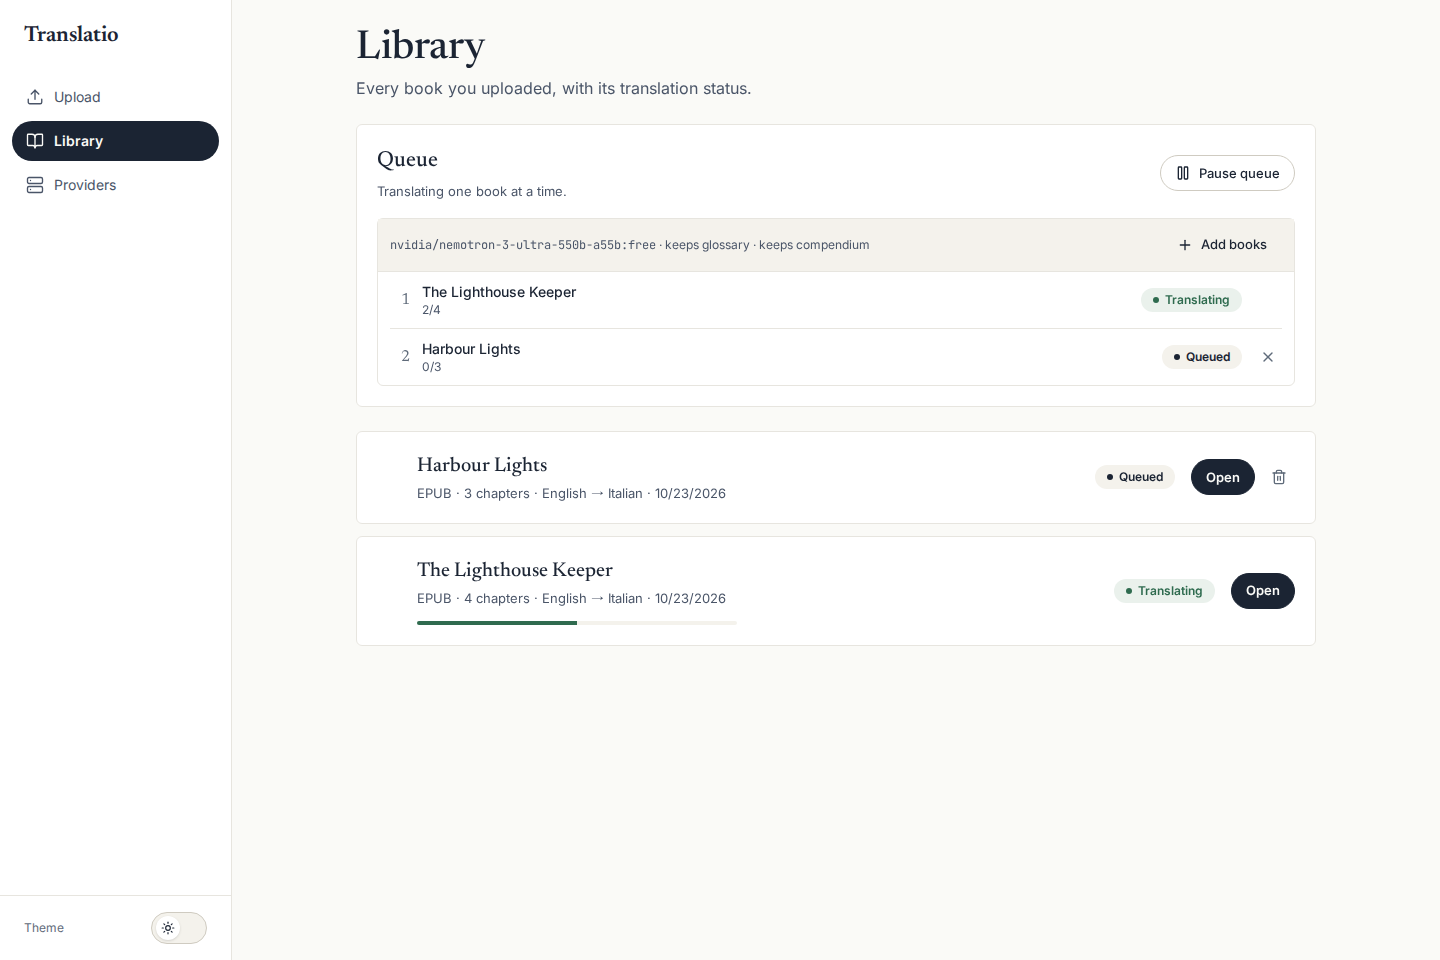
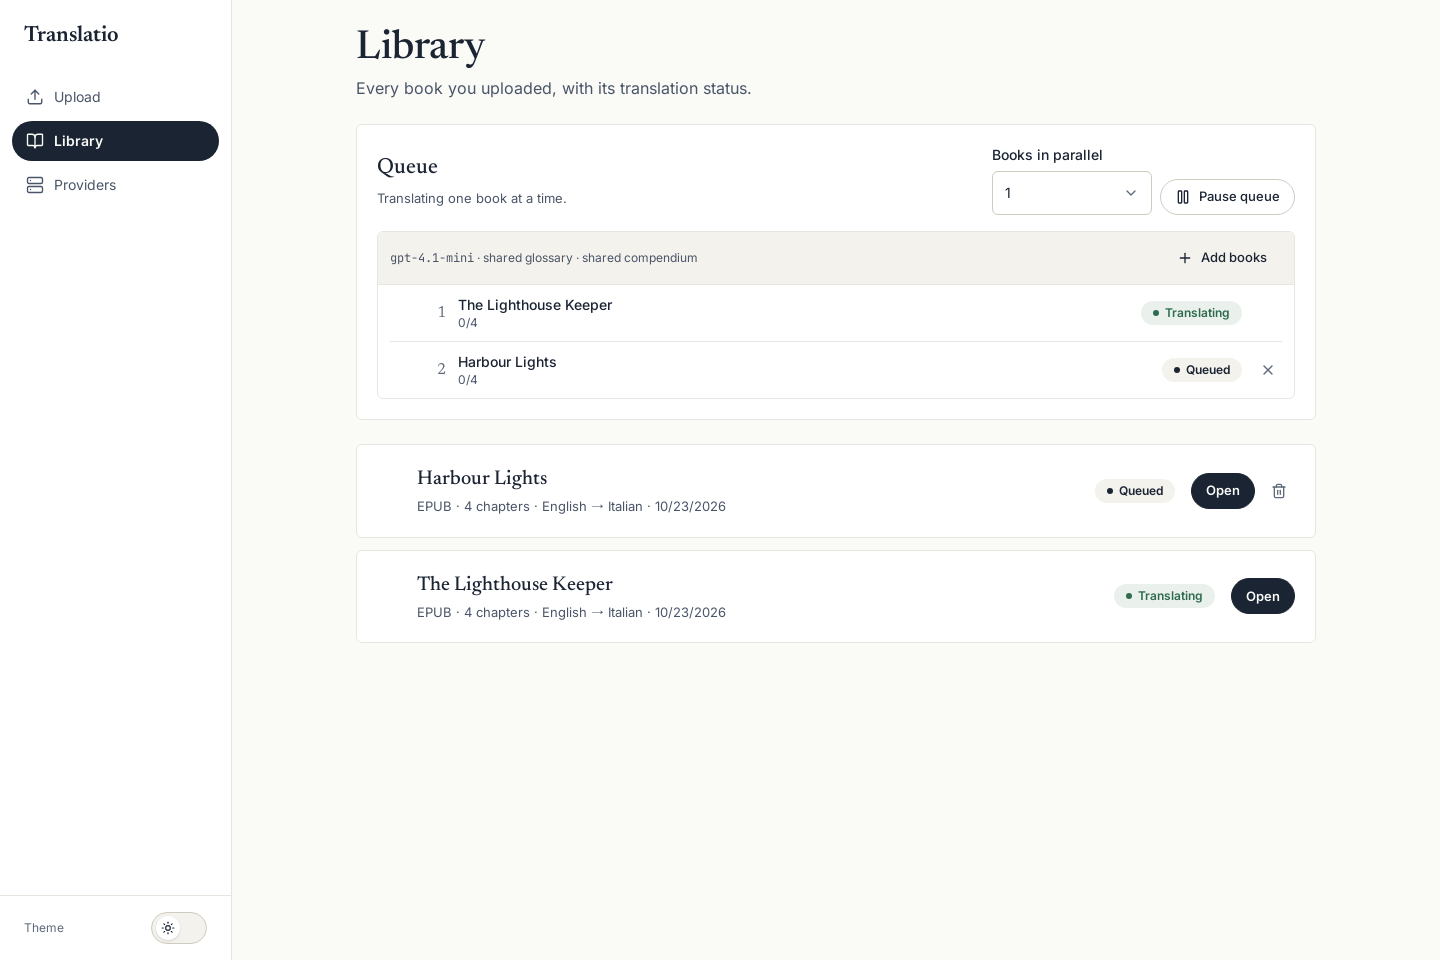
docs: new screenshots and docs for targeted fixes, compendium view, settings
Closes #133

diff --git a/CLAUDE.md b/CLAUDE.md
@@ -61,7 +61,7 @@ Monorepo: `backend/` (FastAPI + LangChain/LangGraph + async SQLAlchemy/aiosqlite
    - `recover_interrupted_jobs()` (startup) turns `translating` into `paused`
 5. `app/agents/pipeline.py`: `translate_chapter(blocks, previous=...)` chunks the blocks deterministically and runs only the chunks with missing blocks through a LangGraph `StateGraph`: context → translate → review (optional) → retry with the reviewer's feedback | learn → finalize → `chunk_done`. Only translate and review call the model. `context` picks the glossary terms and compendium entries the chunk (and the text before it) mentions; `learn` folds the accepted translation's `new_terms`/`compendium_updates` in. A failed chunk leaves its blocks `None` (reported in `failed_chunks`), learns nothing, and is not stored as translated.
    - **Glossary** (`app/knowledge/glossary.py`), shared and read live: model-proposed terms must occur in the source and never override existing/user entries, near-duplicates included (`app/knowledge/similarity.py`: same content words in any order, plurals/articles folded, longer words matched by TF-IDF trigram cosine; an extra word is another term). Prompts get only relevant entries (`app/knowledge/matcher.py`: one folded-word index, no regex per term; the chunk's own mentions rank before the previous context's, capped by `max_glossary_terms`/`max_compendium_entries` (app settings, default 150/60, 0 = all; read at every chunk, edited in the Providers page's Retrieval card)), and the deterministic `enforce` pass uses only those.
-   - **Compendium** (`app/knowledge/compendium.py`): characters/places/other elements with gender, aliases and short notes, so agreements in gendered languages stay right. `merge` matches by name/alias (near-duplicates too), only fills what an entry lacks (a known gender changes only with `evidence` quoted from the passage; it stays on the entry and marks the correction), never changes user entries, keeps only aliases that occur in the source, splits joined names ("Sylphie / Sylphiette" → name + alias) and skips notes whose words are already there. **Targeted fixes ("breadcrumbs", `services/fixes.py`)**: editing a translated glossary term's translation, or a compendium entry's gender (asks first for notes), follows the change back to the translated blocks whose *source* names it (`translation_service.mention_doubts`: a `TermMatcher` over the book's blocks, ~25 ms on 240 pages, so nothing is stored per block and aliases/later entries are covered) in the book and its series. Each becomes a bookmark with the precise reason (and `old_text`/`new_text` for a glossary change); the doubt review replaces an exact occurrence without the model (`glossary.replace_term`) only when the new translation keeps every word's ending (`same_agreement`: gender/number unchanged), and otherwise sends the passage — already replaced — to the review model, which may rewrite whole sentences to make articles, adjectives and pronouns agree, in rounds so edits made during the review join it (`pipeline.added_bookmarks`). Up to `AUTO_FIX_LIMIT` (50) passages a completed book gets a fix-only run at once (`start_fixes`: last `RunConfig` with `restart=False`, `doubt_review=True`; partly translated books wait for their next run); above it (or for notes), the edit returns `confirm` and the UI asks before `POST /api/books/{id}/fixes` with `remember: true`, which sets `Book.ask_before_fixes = False`: asked once per book. The run switch `RunConfig.ask_before_fixes` (default on) sets it at each start; off never asks. Bookmarks dedupe only against open ones, so the same change can come again. Deleting a learned term or entry also deletes it from the series' other books unless edited there. The translator gets the relevant entries and reports `compendium_updates`; the reviewer gets them plus the previous context and flags gender errors as major. The analysis seeds it (`AnalysisResult.entities`). Edited via `GET`/`PUT /api/compendium/{book}` (whole list, only when idle) or one entry at a time (`POST /entry`, `PUT`/`DELETE /entry/{id}`, also while translating: the stores holding the book reload; a reload swaps the contents in one step).
+   - **Compendium** (`app/knowledge/compendium.py`): characters/places/other elements with gender, aliases and short notes, so agreements in gendered languages stay right. `merge` matches by name/alias (near-duplicates too), only fills what an entry lacks (a known gender changes only with `evidence` quoted from the passage; it stays on the entry and marks the correction), never changes user entries, keeps only aliases that occur in the source, splits joined names ("Sylphie / Sylphiette" → name + alias) and skips notes whose words are already there. **Targeted fixes ("breadcrumbs", `services/fixes.py`)**: editing a translated glossary term's translation, or a compendium entry's gender (asks first for notes), follows the change back to the translated blocks whose *source* names it (`translation_service.mention_doubts`: a `TermMatcher` over the book's blocks, ~25 ms on 240 pages, so nothing is stored per block and aliases/later entries are covered; a character is also followed by each part of its name, titles excluded: `compendium.mention_names`) in the book and its series. Each becomes a bookmark with the precise reason (and `old_text`/`new_text` for a glossary change); the doubt review replaces an exact occurrence without the model (`glossary.replace_term`) only when the new translation keeps every word's ending (`same_agreement`: gender/number unchanged), and otherwise sends the *original* passage to the review model with the reason (given an already-replaced text, models "confirm" it), which may rewrite whole sentences so articles, adjectives and pronouns agree; leftover exact occurrences in its answer are replaced, and if it proposes nothing the mechanical replacement is the fallback (`replace_term` never touches the old term inside the new one: "faro" in "torre del faro"). The review runs in rounds so edits made during the review join it (`pipeline.added_bookmarks`). Up to `AUTO_FIX_LIMIT` (50) passages a completed book gets a fix-only run at once (`start_fixes`: last `RunConfig` with `restart=False`, `doubt_review=True`; partly translated books wait for their next run); above it (or for notes), the edit returns `confirm` and the UI asks before `POST /api/books/{id}/fixes` with `remember: true`, which sets `Book.ask_before_fixes = False`: asked once per book. The run switch `RunConfig.ask_before_fixes` (default on) sets it at each start; off never asks. Bookmarks dedupe only against open ones, so the same change can come again. Deleting a learned term or entry also deletes it from the series' other books unless edited there. The translator gets the relevant entries and reports `compendium_updates`; the reviewer gets them plus the previous context and flags gender errors as major. The analysis seeds it (`AnalysisResult.entities`). Edited via `GET`/`PUT /api/compendium/{book}` (whole list, only when idle) or one entry at a time (`POST /entry`, `PUT`/`DELETE /entry/{id}`, also while translating: the stores holding the book reload; a reload swaps the contents in one step).
    - **Knowledge stores** (`app/knowledge/store.py`): `GlossaryStore`/`CompendiumStore` are the live, single source of truth per scope (`book:{id}` or `series:{batch_id}`), handed out by `KnowledgeRegistry` (`jobs.knowledge`) to every job and released when no job uses them. In-memory mutations have no `await`, so they are atomic on the event loop; the write-through to the rows of every member book (and loads) run under a per-store `asyncio.Lock`. A store loads from its `sources` (the series' books) with user entries first and deletes learned near-duplicates; a book `join`ing receives everything known. API edits call `jobs.knowledge.refresh_book`, so running jobs use them at once. The graph's `learn` node and the analysis write through the stores.
 6. Blocks and alignment: `html_processor.extract_html_blocks` is the single source of blocks for both `SmartChunker.extract_blocks` and `replace_text_blocks`, so translation `i` always lands on block `i`. Inline tags travel as numbered placeholders (`<1>…</1>`, `<2/>`) and are restored with their attributes. `translate_blocks` enforces one output paragraph per block, of a plausible length for it (`aligned`: a paragraph moved onto a page header is caught; retry, then per-block fallback); the reviewer's rewrite is kept only when aligned too. Never change block extraction in only one place.
 7. Agents (`analyzer.py`, `translator_agent.py`, `reviewer.py`) use `structured_chain` against Pydantic models in `app/models/schemas.py`. `FakeChatModel` overrides `with_structured_output` by schema type, so a new structured schema must also be handled there.
@@ -81,6 +81,7 @@ Progress events are forwarded to the client as `{"event": event_type, chapter_in
 - **Fonts**: `font-serif` (Newsreader) for headings and numbers; Inter for the UI; `font-mono` for model ids.
 - **Primitives**: `components/ui.tsx` (`Button`, `Card`, `Page`, `Heading`, `StatusPill`) and `lib/styles.ts` (`buttonClass`, `inputClass`; non-component exports live outside `.tsx` because of react-refresh).
 - **Run settings**: `RunSettingsFields` (+ `lib/runSettings.ts`) is the shared form of the translate page and the queue dialog, including the collapsible feature switches (`FEATURES` in `lib/api.ts`: `analysis`, `use_glossary`, `learn_glossary`, `enforce_glossary`, `use_compendium`, `learn_compendium`, `doubt_review`; `RunConfig` fields, all on by default, read by `pipeline.Features` and `TranslationPipeline.doubt_review`); controls (`Toggle`, `Checkbox`, `Select`) are in `components/controls.tsx`. The Library page selects books into the queue (`QueueDialog`) and shows it (`QueuePanel`).
+- **Knowledge editors**: `GlossaryEditor` and `CompendiumEditor` (tabs by kind, compact rows that open to edit) save one row at a time, also while translating; the whole list only when idle. After a save `lib/fixes.ts` (`followFixes`) reports or asks about the targeted fixes. `RetrievalSettings` (Providers page) edits the per-prompt caps.
 - **Model and provider pickers**: `ModelCombobox` and `ProviderSelect` (Headless UI). `ProviderLogo` (brand marks from `@lobehub/icons-static-svg`, picked from provider type, OpenRouter URL or `vendor/model` prefix).
 - **Visual checks**: Chrome automation may be unavailable. Instead, take screenshots with Playwright in Docker (`mcr.microsoft.com/playwright`) on the `translatio_default` network, using the frontend container's IP (the Vite dev server only accepts localhost/IP hosts). Book statuses: `uploaded`, `translating`, `paused` (resumable), `completed`, `failed` (finished with incomplete units or crashed; also resumable).
 

diff --git a/README.MD b/README.MD
@@ -11,7 +11,7 @@ gender of every character consistent from the first page to the last.
 - **Same format, same layout**: EPUB in → EPUB out, PDF in → PDF out. Structure, images, inline formatting and page layout are kept; PDF text is re-typeset in place with metric-compatible fonts (subset, so the file stays the size of the original).
 - **Agentic pipeline on LangGraph**: analysis → per chunk *context → translate → review → learn → finalize* → doubt review ([diagram below](#how-a-chapter-is-translated)). A reviewer flags only major issues and the chunk is retranslated with them.
 - **Glossary**: built while translating, enforced; near-duplicates (*Demon Kings* / *Demon King*, *Kingdom of Asura* / *Asura Kingdom*, spelling variants) are recognised and never added twice. Each prompt gets only the terms its passage uses (plurals and possessives included), the passage's own first.
-- **Compendium**: characters with their gender, aliases and translation notes, plus places and other recurring elements. English often leaves gender implicit, Italian never does: the translator uses it for every agreement and the reviewer treats a wrong gender as a major issue. A guessed gender is corrected when the text proves otherwise (the quote is kept as evidence).
+- **Compendium**: characters with their gender, aliases and translation notes, plus places, organizations, items and other recurring elements, shown by kind. English often leaves gender implicit, Italian never does: the translator uses it for every agreement and the reviewer treats a wrong gender as a major issue. A guessed gender is corrected when the text proves otherwise (the quote is kept as evidence).
 - **Edit while translating**: change or delete a single glossary term or compendium entry at any time; the running job uses it from the next chunk.
 - **Targeted fixes after the fact**: change a term's translation or a character's gender once the book is done, and only the passages that name it are fixed — by direct replacement where the old translation appears as is and nothing around it has to change, by the model elsewhere (one passage at a time, told exactly what changed, free to rewrite the sentence so articles, adjectives and pronouns agree). Nothing else is read again. Large changes ask once per book, or never with the *Ask before large fixes* switch off.
 - **Doubts**: the translator bookmarks what it had to guess (a gender not revealed yet, who *she* is, an unknown term); a corrected gender bookmarks the passages already translated. At the end of the book a dedicated review revisits them with everything learned since and fixes what was wrong.
@@ -44,12 +44,14 @@ Before the first chapter, an analysis of the opening pages seeds the glossary an
 
 | | |
 | --- | --- |
-| ![Library with a running queue](docs/screenshots/library.png) | ![Compendium of a book](docs/screenshots/compendium.png) |
-| **Library** — queues, per-book status, add books to a running queue | **Compendium** — gender, aliases and notes per character |
-| ![Queue several books](docs/screenshots/queue-dialog.png) | ![Side-by-side preview](docs/screenshots/preview.png) |
-| **Queue** — one set of settings, glossary and compendium carried over | **Preview** — original and translation side by side |
-| ![Providers](docs/screenshots/providers.png) | ![Upload](docs/screenshots/upload.png) |
-| **Providers** — live status and models of each provider | **Upload** — one or more EPUB/PDF files |
+| ![Translation running](docs/screenshots/translate-running.png) | ![Doubts and fixes](docs/screenshots/fixes.png) |
+| **Translate** — live passage side by side, queue progress, activity log | **Doubts and fixes** — a glossary change (*faro* → *torre del faro*) fixed only where it occurs, agreements included |
+| ![Compendium of a book](docs/screenshots/compendium.png) | ![Glossary of a book](docs/screenshots/glossary.png) |
+| **Compendium** — by kind, gender, aliases and notes; edit one entry at a time, also while translating | **Glossary** — terms learned while translating; a change is followed to the passages that use it |
+| ![Library with a running queue](docs/screenshots/library.png) | ![Queue several books](docs/screenshots/queue-dialog.png) |
+| **Library** — queues (drag to reorder), books in parallel, add books to a running queue | **Queue** — one set of settings and feature switches; a series shares glossary and compendium live |
+| ![Providers](docs/screenshots/providers.png) | ![Side-by-side preview](docs/screenshots/preview.png) |
+| **Providers** — live status and models; how much glossary and compendium each prompt gets | **Preview** — original and translation side by side |
 
 ## Quick start
 
